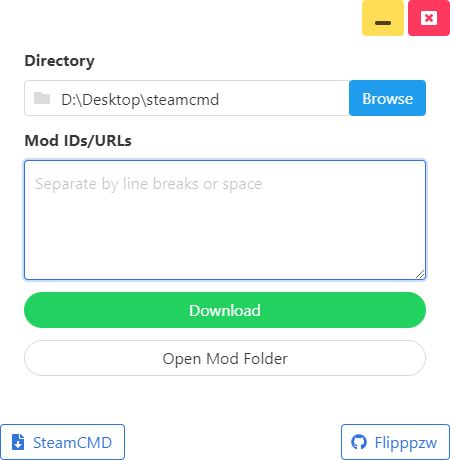
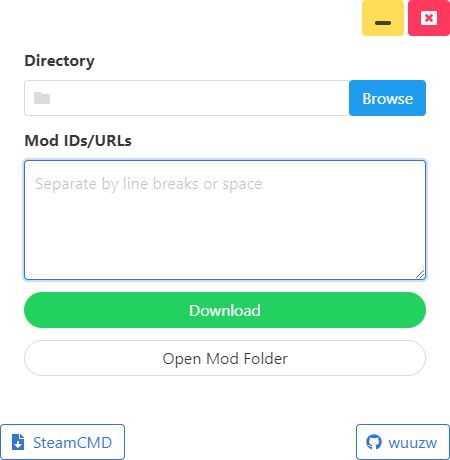
Update author

Changed region(s): [[0.1244, 0.213, 0.4978, 0.2435], [0.7467, 0.913, 0.9333, 1.0]]

diff --git a/src/index.js b/src/index.js
@@ -77,7 +77,7 @@ function downloadCMD() {
 }
 
 function about() {
-	shell.openExternal('https://github.com/Flapzw/ModDownloader');
+	shell.openExternal('https://github.com/wuuzw/ModDownloader');
 }
 
 function generateScript(validModList) {

diff --git a/src/index.html b/src/index.html
@@ -67,7 +67,7 @@
 				<span class="icon">
 				<i class="fab fa-github"></i>
 				</span>
-			<span>Flapzw</span>
+			<span>wuuzw</span>
 		</button>
 	</div>
 </section>
